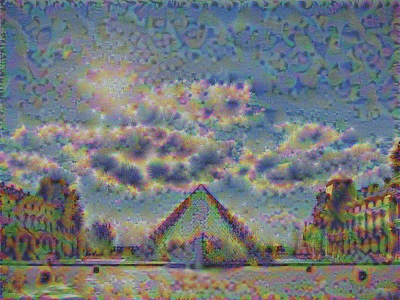
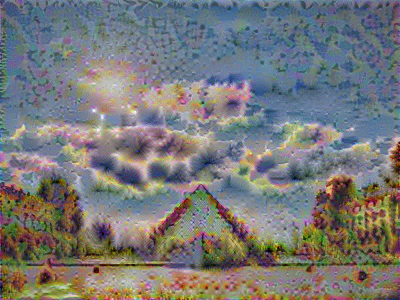
more realistic results

diff --git a/README.md b/README.md
@@ -12,5 +12,5 @@
 
 
 
-![](lion.jpg) +  ![](fire.jpg) =  ![](out2.png)
+![](lion.jpg) +  ![](fire.jpg) =  ![](fire_lion.png)
 
